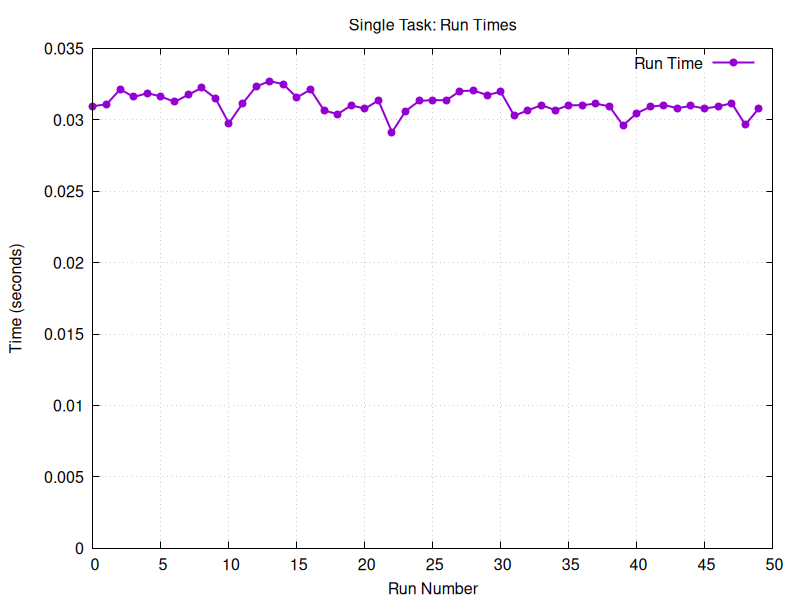
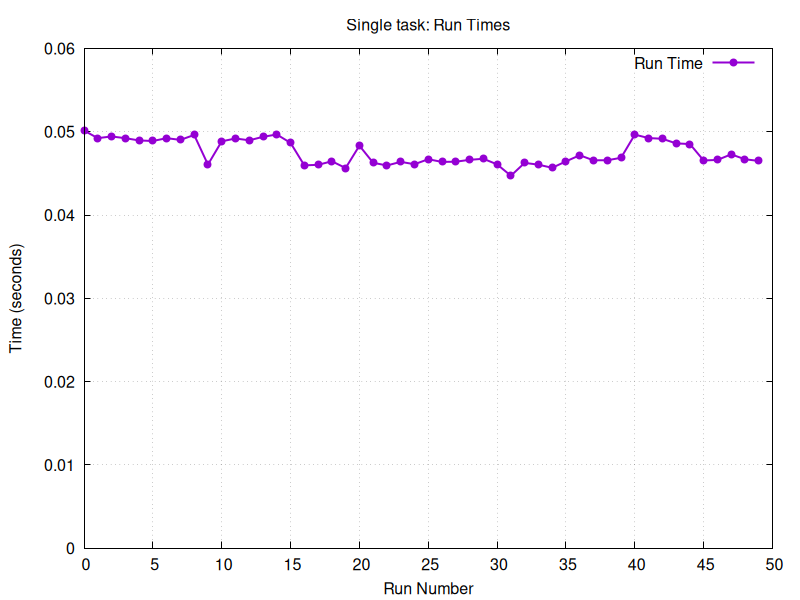
More report

diff --git a/MandatoryAssigment1/REPORT.md b/MandatoryAssigment1/REPORT.md
@@ -11,102 +11,250 @@
 | s224792   | Javad Asgari Shafique      | 
 | s224772   | Hjalte Cornelius Nannestad |
 
+For this assigment we've decided to include the 3 recommend files as test cases,
+in this report we'll refer to them by their name as seen in the following table
+together with the pattern we've used for the search.
+
+| File name   | Description                           |
+|-------------|---------------------------------------|
+| 02hgp10.txt | Human Genome Project                  |
+| 100-0.txt   | Complete works of William Shakespeare |
+| xtest.txt   | Text from problem 2                   |
+
+Primarily the tests were run on a Ryzen 9 5900HX 8/16 3.3 GHz (4.6 GHz) laptop processor.
+
+For plots, we decided to go with gnuplot to automate the process of generating plots.
+See the attached GitHub repository for the scripts used to generate the
+plots: <https://github.com/cjavad/dtu-02158-concurrent-programming>.
+
 ## Problem 1
 
-Parameters:
+Attempting to find a pattern that took a significant amount of time (greater than 0.1 seconds) using a combination
+of the data files we used was not feasible without using patterns that yielded no results, but we decided on a pattern
+with a small amount of results anyway. We decided to use 50 runs, this will give us better measurements of the average
+speedup
+and other average values later on.
 
-```
-PATTERN=TCAG
-FILE=./data/02hgp10.txt
-```
+| Parameter | Value       |
+|-----------|-------------|
+| PATTERN   | TCAGGGG     |
+| FILE      | 02hgp10.txt |
+| RUNS      | 50          |
+| WARMUPS   | 0           |
+| EXECUTOR  | Single      |
 
-![](./images/problem-1-10.png)
+![](./images/problem-1-50.png)
 
-Using `-W 2`
+Running the search with no warmups shows a small startup cost that nearly doubles the time it took to search for the
+pattern
+in a single go. This can be attributed to many factors, including the startup cost of Java, memory allocation and other
+factors.
 
-![](./images/problem-1-10-2.png)
-
-Using `-W 4`
-
-![](./images/problem-1-10-4.png)
-
-![](./images/problem-1-50-2.png)
-
-![](./images/problem-1-50-4.png)
+| Parameter | Value       |
+|-----------|-------------|
+| PATTERN   | TCAGGGG     |
+| FILE      | 02hgp10.txt |
+| RUNS      | 50          |
+| WARMUPS   | 25          |
+| EXECUTOR  | Single      |
 
 ![](./images/problem-1-50-25.png)
 
+Using a warmup parameter of 25, the variance has been smoothed out to less than 0.01 seconds.
+
+We had additionally performed tests on combinations of 10 runs with 2 and 4 warmups and 2, 4 and 8 warmups with 50
+runs but found this combination made the most sense for accurate results.
+
 ## Problem 2
 
-> TODO: Explain this
+> TODO: Explain this (Including how we ensure we get the correct results)
 
-```java
+```
 // Create list of tasks
 List<SearchTask> taskList = new ArrayList<SearchTask>();
 
-for(
-int i = 0;
-i<ntasks;i++){
-int from = i * len / ntasks;
-int to = (i + 1) * len / ntasks;
-int realTo = Math.min(to + pattern.length - 1, len);
-    taskList.
-
-add(new SearchTask(text, pattern, from, realTo));
-        }
+for (int i = 0; i < ntasks; i++) {
+    int from = i * len / ntasks;
+    int to = (i + 1) * len / ntasks;
+    int realTo = Math.min(to + pattern.length - 1, len);
+    taskList.add(new SearchTask(text, pattern, from, realTo));
+}
 ```
 
-```java
+```
 // Overall result is an ordered list of unique occurrence positions
-result =new LinkedList<Integer>();
-        for(
-var future :futures)result.
-
-addAll(future.get()); 
+result = new LinkedList<Integer>();
+for (var future : futures)
+        result.addAll(future.get()); 
 ```
 
-> TODO: Speedup %
+> TODO: Explain "Average speedup%" and how it is calculated and how we can use it.
 
-Parameters:
+> TODO: Explain if the speedup we measured is what we expected. We are running multiple tasks on one thread.
 
-```
-WARMUPS=25
-RUNS=50
-
-PATTERN=xxxx
-TASKS=16
-FILE=./data/xtest.txt
-```
+| Parameter | Value      |
+|-----------|------------|
+| PATTERN   | xxxx       |
+| FILE      | xtest.txt  |
+| TASKS     | 0 (Single) |
+| RUNS      | 50         |
+| WARMUPS   | 25         |
+| EXECUTOR  | Single     |
 
 ![](./images/problem-2-single.png)
+
+| Parameter | Value     |
+|-----------|-----------|
+| PATTERN   | xxxx      |
+| FILE      | xtest.txt |
+| TASKS     | 1         |
+| RUNS      | 50        |
+| WARMUPS   | 25        |
+| EXECUTOR  | Single    |
+
 ![](./images/problem-2-multi-1.png)
+
+| Parameter | Value     |
+|-----------|-----------|
+| PATTERN   | xxxx      |
+| FILE      | xtest.txt |
+| TASKS     | 2         |
+| RUNS      | 50        |
+| WARMUPS   | 25        |
+| EXECUTOR  | Single    |
+
 ![](./images/problem-2-multi-2.png)
+
+| Parameter | Value     |
+|-----------|-----------|
+| PATTERN   | xxxx      |
+| FILE      | xtest.txt |
+| TASKS     | 16        |
+| RUNS      | 50        |
+| WARMUPS   | 25        |
+| EXECUTOR  | Single    |
+
 ![](./images/problem-2-multi-16.png)
 
 ## Problem 3
 
-Parameters:
+Previously we had only had the ability to take advantage of a single OS thread
+using the "Cached" executor each task now has its own thread to run on.
+Since we are running on a machine with 8 physical cores and 16 logical cores (amount of different stack contexts the CPU
+can keep track of at once) simple math might dictate we should expect a speedup of at least 8x.
 
-```
-PATTERN="world"
-FILE=./data/100-0.txt
-```
-
-Hardware specs:
-
-Mobile Ryzen 9 5900HX 8/16 3.3 GHz (4.6 GHz)
+| Parameter | Value     |
+|-----------|-----------|
+| PATTERN   | world     |
+| FILE      | 100-0.txt |
+| TASKS     | 1         |
+| RUNS      | 50        |
+| WARMUPS   | 25        |
+| EXECUTOR  | Cached    |
 
 ![](./images/problem-3-1.png)
+
+| Parameter | Value     |
+|-----------|-----------|
+| PATTERN   | world     |
+| FILE      | 100-0.txt |
+| TASKS     | 2         |
+| RUNS      | 50        |
+| WARMUPS   | 25        |
+| EXECUTOR  | Cached    |
+
 ![](./images/problem-3-2.png)
+
+Comparing the speedup of 1 task vs 2 tasks we see an approximate speedup of 1.5x,
+this is a bit less than the expected 2x speedup so how come?
+
+Beyond the fact that the actual implementation of the Java code might have some overhead and non-paralellizable parts
+the actual thread we are running does not always get 100% of the CPU time, and even more often the hungrier a thread the
+less CPU time the OS scheduler will give it.
+
+| Parameter | Value     |
+|-----------|-----------|
+| PATTERN   | world     |
+| FILE      | 100-0.txt |
+| TASKS     | 4         |
+| RUNS      | 50        |
+| WARMUPS   | 25        |
+| EXECUTOR  | Cached    |
+
 ![](./images/problem-3-4.png)
+
+Doubling the amount of tasks (and threads) it does seem that we are getting a similar "doubling" in speedup, going from
+the original 1.5x speed to near 3x.
+
+| Parameter | Value     |
+|-----------|-----------|
+| PATTERN   | world     |
+| FILE      | 100-0.txt |
+| TASKS     | 16        |
+| RUNS      | 50        |
+| WARMUPS   | 25        |
+| EXECUTOR  | Cached    |
+
 ![](./images/problem-3-16.png)
+
+Now using the same amount of threads as the CPU has logical processing units, we see even in the best runs
+the speedup was "only" double that of the 4 task/thread run, going on 0.01 seconds to half of that with 0.005 seconds.
+This does seem to reflect the fact the CPU only has 8 physical cores, which is the actual representation of the amount
+of physical
+components it has to perform operations such as comparisons and memory access. If we consider the worst runs with 1
+thread and the best runs with 16 threads the maximum point to point speedup is only 8x.
+
+Going beyond this amount of tasks/threads the average speedup plateaus at around a total of 5x and even decreases at
+some points
+due to the nondeterministic nature of the operating system scheduler.
 
 ## Problem 4
 
+Using a fixed thread pool executor, which in theory should reduce a lot of the overhead that comes
+from creating and starting a new thread we can visualize the total average speedup in relation to the amount of tasks
+(to overwork the threads to achieve maximum throughput) in proportion to the amount of threads which can reflect the
+systems overall capability.
+
+| Parameter | Value            |
+|-----------|------------------|
+| PATTERN   | world            |
+| FILE      | 100-0.txt        |
+| TASKS     | 1,2,4,8,16,32,64 |
+| THREADS   | 1,2,4,8,16       |
+| RUNS      | 50               |
+| WARMUPS   | 25               |
+| EXECUTOR  | Fixed            |
+
 ![](./images/problem-4-speedup.png)
+
+Executions that only have 1 thread seems to approximate an average speedup of 1x, which is expected.
+The same actually goes for 2 threads, and even 4 threads where the average speedup is linearly increasing
+with some relative factor of 1.5x perhaps due to the nature of the operating system, shared physical hardware and other
+nondeterministic factors.
+
+Once we reach 8 and 16 threads things seem to stop increasing, but with more tasks than threads it does seem that
+throughput keeps on going up. This is likely happening since with more work to do, the less "starved" the threads are,
+so they'll be able to perform work as soon as they are allowed to.
 
 ## Problem 5
 
+
+> TODO: Write this.
+
 Ran on 48-core HPC node.
 
+| Parameter | Value                    |
+|-----------|--------------------------|
+| PATTERN   | world                    |
+| FILE      | 100-0.txt                |
+| TASKS     | 1,2,4,8,16,32,64,128,256 |
+| THREADS   | 1,2,4,8,16,32,64         |
+| RUNS      | 50                       |
+| WARMUPS   | 25                       |
+| EXECUTOR  | Fixed                    |
+
 ![](./images/problem-5-speedup.png)
+
+## Conclusion
+
+> TODO: Write this.
